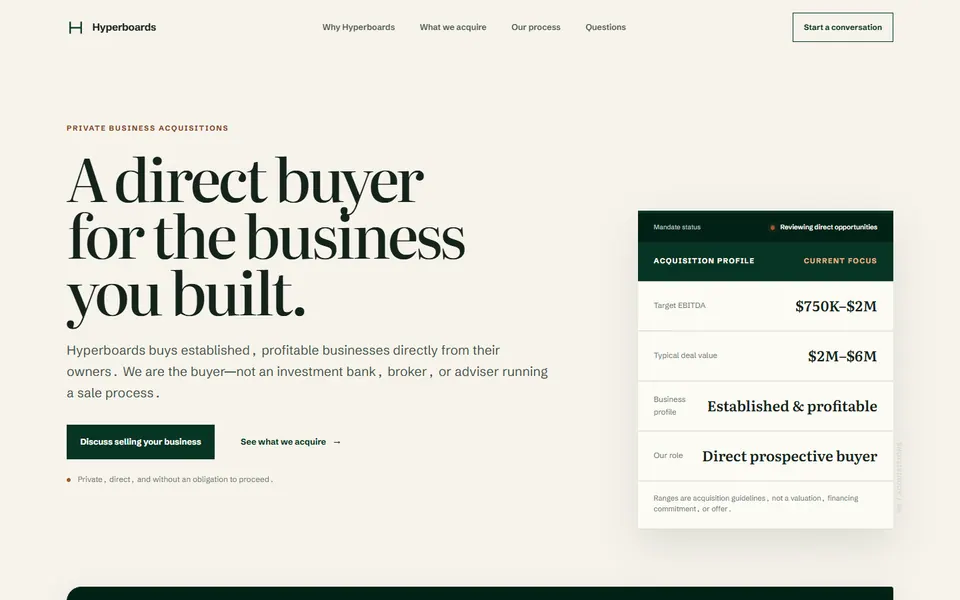
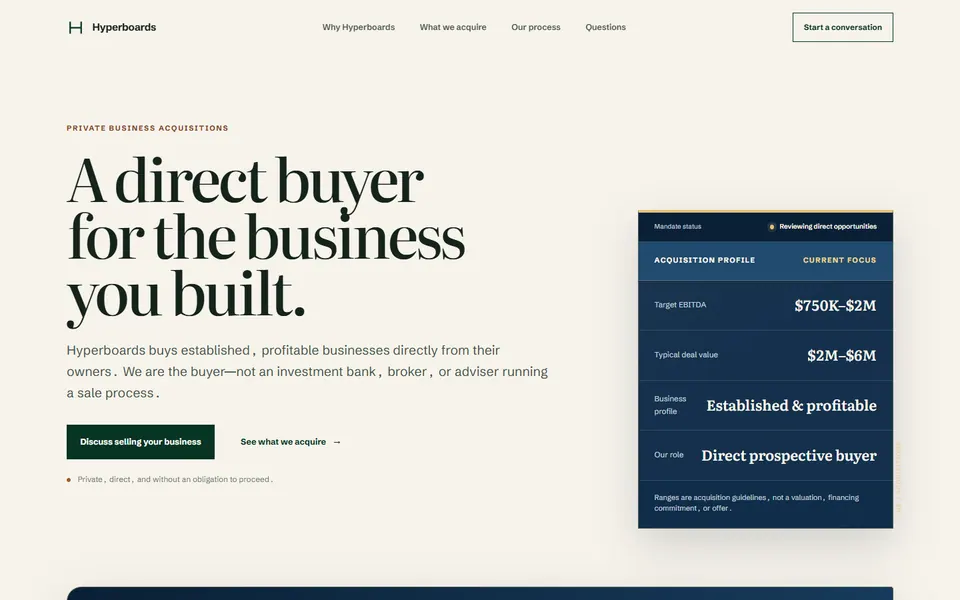
feat: restyle Evergreen Partner with navy ledger panels

Changed region(s): [[0.6562, 0.33, 0.9375, 0.9], [0.0625, 0.96, 0.9375, 1.0]]

diff --git a/prototypes/frontpage-concepts-v2/01-evergreen-partner/styles.css b/prototypes/frontpage-concepts-v2/01-evergreen-partner/styles.css
@@ -315,3 +315,174 @@ svg { display: block; }
   *, *::before, *::after { scroll-behavior: auto !important; transition-duration: 0.01ms !important; animation-duration: 0.01ms !important; animation-iteration-count: 1 !important; }
   .js .evergreen-reveal { opacity: 1; transform: none; }
 }
+
+/* Evergreen Navy Ledger — the approved Design 2 material direction. */
+:root {
+  --ledger-navy-950: #0a2035;
+  --ledger-navy-900: #102d49;
+  --ledger-navy-800: #173b5b;
+  --ledger-navy-700: #214b6e;
+  --ledger-blue-100: #e8eef2;
+  --ledger-blue-200: #c6d4df;
+  --ledger-gold: #dfc274;
+  --ledger-gold-bright: #f0d68c;
+  --ledger-cream: #fbf6e8;
+  --navy-gold-rule: rgb(223 194 116 / 34%);
+  --ledger-shadow: 0 1.5rem 4rem rgb(10 32 53 / 17%);
+}
+
+.evergreen-profile {
+  border: 1px solid var(--navy-gold-rule);
+  border-top: 4px solid var(--ledger-gold);
+  background-color: var(--ledger-navy-900);
+  background-image: linear-gradient(145deg, rgb(255 255 255 / 3%), transparent 46%);
+  box-shadow: var(--ledger-shadow);
+}
+.evergreen-profile::after { color: var(--ledger-gold); opacity: 0.58; }
+.evergreen-profile__status { color: var(--ledger-blue-200); background: var(--ledger-navy-950); }
+.evergreen-profile__status strong { color: var(--ledger-cream); }
+.evergreen-profile__status i { background: var(--ledger-gold); box-shadow: 0 0 0 4px rgb(223 194 116 / 14%); }
+.evergreen-profile__head { color: var(--ledger-cream); background: var(--ledger-navy-700); border-bottom-color: var(--navy-gold-rule); }
+.evergreen-profile__head span { color: var(--ledger-gold-bright); }
+.evergreen-profile__rows > div {
+  border-bottom-color: rgb(198 212 223 / 18%);
+  background: rgb(255 255 255 / 1.5%);
+  transition: background-color 180ms ease;
+}
+.evergreen-profile__rows > div:hover { background: rgb(255 255 255 / 5%); }
+.evergreen-profile dt, .evergreen-profile__foot { color: var(--ledger-blue-200); }
+.evergreen-profile dd { color: var(--ledger-cream); }
+
+.evergreen-hero__statement {
+  border-color: var(--navy-gold-rule);
+  color: var(--ledger-cream);
+  background-color: var(--ledger-navy-950);
+  background-image: linear-gradient(90deg, var(--ledger-navy-950), var(--ledger-navy-800));
+  box-shadow: var(--ledger-shadow);
+}
+.evergreen-hero__statement p { color: var(--ledger-blue-200); }
+.evergreen-hero__statement strong { color: var(--ledger-gold-bright); }
+
+.evergreen-owner-grid {
+  gap: clamp(0.65rem, 1.4vw, 1.1rem);
+  border-top: 0;
+}
+.evergreen-owner-grid__item,
+.evergreen-owner-grid__item + .evergreen-owner-grid__item {
+  min-height: 245px;
+  padding: clamp(1.4rem, 2.5vw, 2rem);
+  border: 1px solid var(--navy-gold-rule);
+  background-color: var(--ledger-navy-900);
+  background-image: linear-gradient(155deg, rgb(255 255 255 / 4%), transparent 48%);
+  box-shadow: 0 0.75rem 2rem rgb(10 32 53 / 10%);
+  transition: transform 220ms var(--ease), border-color 220ms ease, background-color 220ms ease, box-shadow 220ms ease;
+}
+.evergreen-owner-grid__item:nth-child(even) { background-color: var(--ledger-navy-800); }
+.evergreen-owner-grid__item:hover {
+  border-color: rgb(223 194 116 / 72%);
+  background-color: var(--ledger-navy-700);
+  box-shadow: 0 1.2rem 2.7rem rgb(10 32 53 / 18%);
+  transform: translateY(-4px);
+}
+.evergreen-owner-grid__item::after { top: auto; right: 1.5rem; bottom: 1.35rem; left: 1.5rem; width: auto; height: 1px; background: var(--ledger-gold); }
+.evergreen-owner-grid__item span,
+.evergreen-acquire__criteria span { color: var(--ledger-gold); }
+.evergreen-owner-grid h3 { color: var(--ledger-cream); font-family: var(--font-serif); font-size: 1.18rem; }
+.evergreen-owner-grid p { color: var(--ledger-blue-200); }
+
+.evergreen-acquire__criteria {
+  border-color: var(--navy-gold-rule);
+  border-radius: 0.35rem;
+  background-color: var(--ledger-navy-900);
+  background-image:
+    linear-gradient(120deg, rgb(255 255 255 / 3%), transparent 46%),
+    linear-gradient(90deg, var(--ledger-navy-950), var(--ledger-navy-800));
+  box-shadow: var(--ledger-shadow);
+}
+.evergreen-acquire__criteria > div { border-bottom-color: var(--navy-gold-rule); }
+.evergreen-acquire__criteria > div:nth-child(even) { border-left-color: var(--navy-gold-rule); }
+.evergreen-acquire__criteria h3 { color: var(--ledger-cream); }
+.evergreen-acquire__criteria p { color: var(--ledger-blue-200); }
+.evergreen-acquire__criteria span { color: var(--ledger-gold-bright); }
+
+.evergreen-sectors__head { border-bottom-color: var(--ledger-navy-800); }
+.evergreen-sector-index button[aria-pressed='true'] { color: var(--ledger-cream); background: var(--ledger-navy-800); }
+.evergreen-sector-index button[aria-pressed='true'] span,
+.evergreen-sector-index button[aria-pressed='true'] i { color: var(--ledger-gold-bright); }
+.evergreen-sector-ledger__brief {
+  border-color: var(--navy-gold-rule);
+  border-radius: 0.25rem;
+  background-color: var(--ledger-navy-900);
+  background-image: linear-gradient(110deg, var(--ledger-navy-950), var(--ledger-navy-800));
+  box-shadow: 0 1rem 2.8rem rgb(10 32 53 / 12%);
+}
+.evergreen-sector-ledger__brief span { color: var(--ledger-gold-bright); }
+.evergreen-sector-ledger__brief p { color: var(--ledger-cream); }
+
+.evergreen-process {
+  background-color: var(--ledger-navy-950);
+  background-image:
+    linear-gradient(rgb(223 194 116 / 5%) 1px, transparent 1px),
+    linear-gradient(90deg, rgb(223 194 116 / 5%) 1px, transparent 1px),
+    linear-gradient(125deg, var(--ledger-navy-950), var(--ledger-navy-800));
+  background-size: 32px 32px, 32px 32px, auto;
+}
+.evergreen-section-intro--inverse > div,
+.evergreen-section-intro--inverse > p:last-child,
+.evergreen-process__steps p { color: var(--ledger-blue-200); }
+.evergreen-section-intro--inverse .evergreen-eyebrow,
+.evergreen-process__steps span { color: var(--ledger-gold-bright); }
+.evergreen-process-line > span,
+.evergreen-process-line i.is-passed { border-color: var(--ledger-gold); background: var(--ledger-gold); }
+.evergreen-process-line i { background: var(--ledger-navy-950); }
+
+.evergreen-stewardship__principles {
+  gap: clamp(0.65rem, 1.4vw, 1.1rem);
+  border-top: 0;
+}
+.evergreen-stewardship__principles li,
+.evergreen-stewardship__principles li + li {
+  min-height: 155px;
+  padding: 1.45rem;
+  border: 1px solid var(--navy-gold-rule);
+  background: var(--ledger-navy-900);
+  box-shadow: 0 0.8rem 2rem rgb(10 32 53 / 9%);
+}
+.evergreen-stewardship__principles li:nth-child(even) { background: var(--ledger-navy-800); }
+.evergreen-stewardship__principles li::before { top: 1.5rem; right: 1.35rem; left: auto; border-color: var(--ledger-gold); background: transparent; }
+.evergreen-stewardship__principles span { color: var(--ledger-gold-bright); }
+.evergreen-stewardship__principles small { color: var(--ledger-blue-200); }
+
+.evergreen-faq__items { display: grid; gap: 0.65rem; border-top: 0; }
+.evergreen-faq details {
+  padding-inline: 1.2rem;
+  border: 1px solid #cfdae2;
+  background: var(--ledger-blue-100);
+  transition: border-color 180ms ease, background-color 180ms ease, color 180ms ease;
+}
+.evergreen-faq details[open] { border-color: var(--navy-gold-rule); color: var(--ledger-cream); background: var(--ledger-navy-800); }
+.evergreen-faq details[open] p { color: var(--ledger-blue-200); }
+.evergreen-faq details[open] summary::before,
+.evergreen-faq details[open] summary::after { background: var(--ledger-gold-bright); }
+
+.evergreen-contact { background-color: var(--ledger-navy-800); background-image: linear-gradient(105deg, var(--ledger-navy-950), var(--ledger-navy-700)); }
+.evergreen-contact .evergreen-eyebrow { color: var(--ledger-gold-bright); }
+.evergreen-contact__inner > div:last-child p { color: var(--ledger-blue-200); }
+.evergreen-contact .evergreen-button--light { border-color: var(--ledger-gold); color: var(--ledger-navy-950); background: var(--ledger-gold-bright); }
+.evergreen-contact .evergreen-button--light:hover { color: var(--ledger-cream); background: transparent; }
+.evergreen-footer { color: var(--ledger-blue-200); background: var(--ledger-navy-950); }
+.evergreen-footer__grid > div:first-child p,
+.evergreen-footer__legal { color: var(--ledger-blue-200); }
+.evergreen-footer__grid > div:not(:first-child) > p { color: var(--ledger-gold-bright); }
+
+@media (max-width: 720px) {
+  .evergreen-owner-grid { gap: 0.65rem; }
+  .evergreen-owner-grid__item,
+  .evergreen-owner-grid__item + .evergreen-owner-grid__item { min-height: 0; padding: 1.4rem; border: 1px solid var(--navy-gold-rule); }
+  .evergreen-owner-grid__item::after { right: 1.4rem; bottom: 1.1rem; left: 1.4rem; }
+  .evergreen-stewardship__principles { gap: 0.65rem; }
+  .evergreen-stewardship__principles li,
+  .evergreen-stewardship__principles li + li,
+  .evergreen-stewardship__principles li:nth-child(3),
+  .evergreen-stewardship__principles li:nth-child(4) { min-height: 0; padding: 1.4rem; border: 1px solid var(--navy-gold-rule); }
+}

diff --git a/public/design-previews/evergreen-partner/styles.css b/public/design-previews/evergreen-partner/styles.css
@@ -315,3 +315,174 @@ svg { display: block; }
   *, *::before, *::after { scroll-behavior: auto !important; transition-duration: 0.01ms !important; animation-duration: 0.01ms !important; animation-iteration-count: 1 !important; }
   .js .evergreen-reveal { opacity: 1; transform: none; }
 }
+
+/* Evergreen Navy Ledger — the approved Design 2 material direction. */
+:root {
+  --ledger-navy-950: #0a2035;
+  --ledger-navy-900: #102d49;
+  --ledger-navy-800: #173b5b;
+  --ledger-navy-700: #214b6e;
+  --ledger-blue-100: #e8eef2;
+  --ledger-blue-200: #c6d4df;
+  --ledger-gold: #dfc274;
+  --ledger-gold-bright: #f0d68c;
+  --ledger-cream: #fbf6e8;
+  --navy-gold-rule: rgb(223 194 116 / 34%);
+  --ledger-shadow: 0 1.5rem 4rem rgb(10 32 53 / 17%);
+}
+
+.evergreen-profile {
+  border: 1px solid var(--navy-gold-rule);
+  border-top: 4px solid var(--ledger-gold);
+  background-color: var(--ledger-navy-900);
+  background-image: linear-gradient(145deg, rgb(255 255 255 / 3%), transparent 46%);
+  box-shadow: var(--ledger-shadow);
+}
+.evergreen-profile::after { color: var(--ledger-gold); opacity: 0.58; }
+.evergreen-profile__status { color: var(--ledger-blue-200); background: var(--ledger-navy-950); }
+.evergreen-profile__status strong { color: var(--ledger-cream); }
+.evergreen-profile__status i { background: var(--ledger-gold); box-shadow: 0 0 0 4px rgb(223 194 116 / 14%); }
+.evergreen-profile__head { color: var(--ledger-cream); background: var(--ledger-navy-700); border-bottom-color: var(--navy-gold-rule); }
+.evergreen-profile__head span { color: var(--ledger-gold-bright); }
+.evergreen-profile__rows > div {
+  border-bottom-color: rgb(198 212 223 / 18%);
+  background: rgb(255 255 255 / 1.5%);
+  transition: background-color 180ms ease;
+}
+.evergreen-profile__rows > div:hover { background: rgb(255 255 255 / 5%); }
+.evergreen-profile dt, .evergreen-profile__foot { color: var(--ledger-blue-200); }
+.evergreen-profile dd { color: var(--ledger-cream); }
+
+.evergreen-hero__statement {
+  border-color: var(--navy-gold-rule);
+  color: var(--ledger-cream);
+  background-color: var(--ledger-navy-950);
+  background-image: linear-gradient(90deg, var(--ledger-navy-950), var(--ledger-navy-800));
+  box-shadow: var(--ledger-shadow);
+}
+.evergreen-hero__statement p { color: var(--ledger-blue-200); }
+.evergreen-hero__statement strong { color: var(--ledger-gold-bright); }
+
+.evergreen-owner-grid {
+  gap: clamp(0.65rem, 1.4vw, 1.1rem);
+  border-top: 0;
+}
+.evergreen-owner-grid__item,
+.evergreen-owner-grid__item + .evergreen-owner-grid__item {
+  min-height: 245px;
+  padding: clamp(1.4rem, 2.5vw, 2rem);
+  border: 1px solid var(--navy-gold-rule);
+  background-color: var(--ledger-navy-900);
+  background-image: linear-gradient(155deg, rgb(255 255 255 / 4%), transparent 48%);
+  box-shadow: 0 0.75rem 2rem rgb(10 32 53 / 10%);
+  transition: transform 220ms var(--ease), border-color 220ms ease, background-color 220ms ease, box-shadow 220ms ease;
+}
+.evergreen-owner-grid__item:nth-child(even) { background-color: var(--ledger-navy-800); }
+.evergreen-owner-grid__item:hover {
+  border-color: rgb(223 194 116 / 72%);
+  background-color: var(--ledger-navy-700);
+  box-shadow: 0 1.2rem 2.7rem rgb(10 32 53 / 18%);
+  transform: translateY(-4px);
+}
+.evergreen-owner-grid__item::after { top: auto; right: 1.5rem; bottom: 1.35rem; left: 1.5rem; width: auto; height: 1px; background: var(--ledger-gold); }
+.evergreen-owner-grid__item span,
+.evergreen-acquire__criteria span { color: var(--ledger-gold); }
+.evergreen-owner-grid h3 { color: var(--ledger-cream); font-family: var(--font-serif); font-size: 1.18rem; }
+.evergreen-owner-grid p { color: var(--ledger-blue-200); }
+
+.evergreen-acquire__criteria {
+  border-color: var(--navy-gold-rule);
+  border-radius: 0.35rem;
+  background-color: var(--ledger-navy-900);
+  background-image:
+    linear-gradient(120deg, rgb(255 255 255 / 3%), transparent 46%),
+    linear-gradient(90deg, var(--ledger-navy-950), var(--ledger-navy-800));
+  box-shadow: var(--ledger-shadow);
+}
+.evergreen-acquire__criteria > div { border-bottom-color: var(--navy-gold-rule); }
+.evergreen-acquire__criteria > div:nth-child(even) { border-left-color: var(--navy-gold-rule); }
+.evergreen-acquire__criteria h3 { color: var(--ledger-cream); }
+.evergreen-acquire__criteria p { color: var(--ledger-blue-200); }
+.evergreen-acquire__criteria span { color: var(--ledger-gold-bright); }
+
+.evergreen-sectors__head { border-bottom-color: var(--ledger-navy-800); }
+.evergreen-sector-index button[aria-pressed='true'] { color: var(--ledger-cream); background: var(--ledger-navy-800); }
+.evergreen-sector-index button[aria-pressed='true'] span,
+.evergreen-sector-index button[aria-pressed='true'] i { color: var(--ledger-gold-bright); }
+.evergreen-sector-ledger__brief {
+  border-color: var(--navy-gold-rule);
+  border-radius: 0.25rem;
+  background-color: var(--ledger-navy-900);
+  background-image: linear-gradient(110deg, var(--ledger-navy-950), var(--ledger-navy-800));
+  box-shadow: 0 1rem 2.8rem rgb(10 32 53 / 12%);
+}
+.evergreen-sector-ledger__brief span { color: var(--ledger-gold-bright); }
+.evergreen-sector-ledger__brief p { color: var(--ledger-cream); }
+
+.evergreen-process {
+  background-color: var(--ledger-navy-950);
+  background-image:
+    linear-gradient(rgb(223 194 116 / 5%) 1px, transparent 1px),
+    linear-gradient(90deg, rgb(223 194 116 / 5%) 1px, transparent 1px),
+    linear-gradient(125deg, var(--ledger-navy-950), var(--ledger-navy-800));
+  background-size: 32px 32px, 32px 32px, auto;
+}
+.evergreen-section-intro--inverse > div,
+.evergreen-section-intro--inverse > p:last-child,
+.evergreen-process__steps p { color: var(--ledger-blue-200); }
+.evergreen-section-intro--inverse .evergreen-eyebrow,
+.evergreen-process__steps span { color: var(--ledger-gold-bright); }
+.evergreen-process-line > span,
+.evergreen-process-line i.is-passed { border-color: var(--ledger-gold); background: var(--ledger-gold); }
+.evergreen-process-line i { background: var(--ledger-navy-950); }
+
+.evergreen-stewardship__principles {
+  gap: clamp(0.65rem, 1.4vw, 1.1rem);
+  border-top: 0;
+}
+.evergreen-stewardship__principles li,
+.evergreen-stewardship__principles li + li {
+  min-height: 155px;
+  padding: 1.45rem;
+  border: 1px solid var(--navy-gold-rule);
+  background: var(--ledger-navy-900);
+  box-shadow: 0 0.8rem 2rem rgb(10 32 53 / 9%);
+}
+.evergreen-stewardship__principles li:nth-child(even) { background: var(--ledger-navy-800); }
+.evergreen-stewardship__principles li::before { top: 1.5rem; right: 1.35rem; left: auto; border-color: var(--ledger-gold); background: transparent; }
+.evergreen-stewardship__principles span { color: var(--ledger-gold-bright); }
+.evergreen-stewardship__principles small { color: var(--ledger-blue-200); }
+
+.evergreen-faq__items { display: grid; gap: 0.65rem; border-top: 0; }
+.evergreen-faq details {
+  padding-inline: 1.2rem;
+  border: 1px solid #cfdae2;
+  background: var(--ledger-blue-100);
+  transition: border-color 180ms ease, background-color 180ms ease, color 180ms ease;
+}
+.evergreen-faq details[open] { border-color: var(--navy-gold-rule); color: var(--ledger-cream); background: var(--ledger-navy-800); }
+.evergreen-faq details[open] p { color: var(--ledger-blue-200); }
+.evergreen-faq details[open] summary::before,
+.evergreen-faq details[open] summary::after { background: var(--ledger-gold-bright); }
+
+.evergreen-contact { background-color: var(--ledger-navy-800); background-image: linear-gradient(105deg, var(--ledger-navy-950), var(--ledger-navy-700)); }
+.evergreen-contact .evergreen-eyebrow { color: var(--ledger-gold-bright); }
+.evergreen-contact__inner > div:last-child p { color: var(--ledger-blue-200); }
+.evergreen-contact .evergreen-button--light { border-color: var(--ledger-gold); color: var(--ledger-navy-950); background: var(--ledger-gold-bright); }
+.evergreen-contact .evergreen-button--light:hover { color: var(--ledger-cream); background: transparent; }
+.evergreen-footer { color: var(--ledger-blue-200); background: var(--ledger-navy-950); }
+.evergreen-footer__grid > div:first-child p,
+.evergreen-footer__legal { color: var(--ledger-blue-200); }
+.evergreen-footer__grid > div:not(:first-child) > p { color: var(--ledger-gold-bright); }
+
+@media (max-width: 720px) {
+  .evergreen-owner-grid { gap: 0.65rem; }
+  .evergreen-owner-grid__item,
+  .evergreen-owner-grid__item + .evergreen-owner-grid__item { min-height: 0; padding: 1.4rem; border: 1px solid var(--navy-gold-rule); }
+  .evergreen-owner-grid__item::after { right: 1.4rem; bottom: 1.1rem; left: 1.4rem; }
+  .evergreen-stewardship__principles { gap: 0.65rem; }
+  .evergreen-stewardship__principles li,
+  .evergreen-stewardship__principles li + li,
+  .evergreen-stewardship__principles li:nth-child(3),
+  .evergreen-stewardship__principles li:nth-child(4) { min-height: 0; padding: 1.4rem; border: 1px solid var(--navy-gold-rule); }
+}
